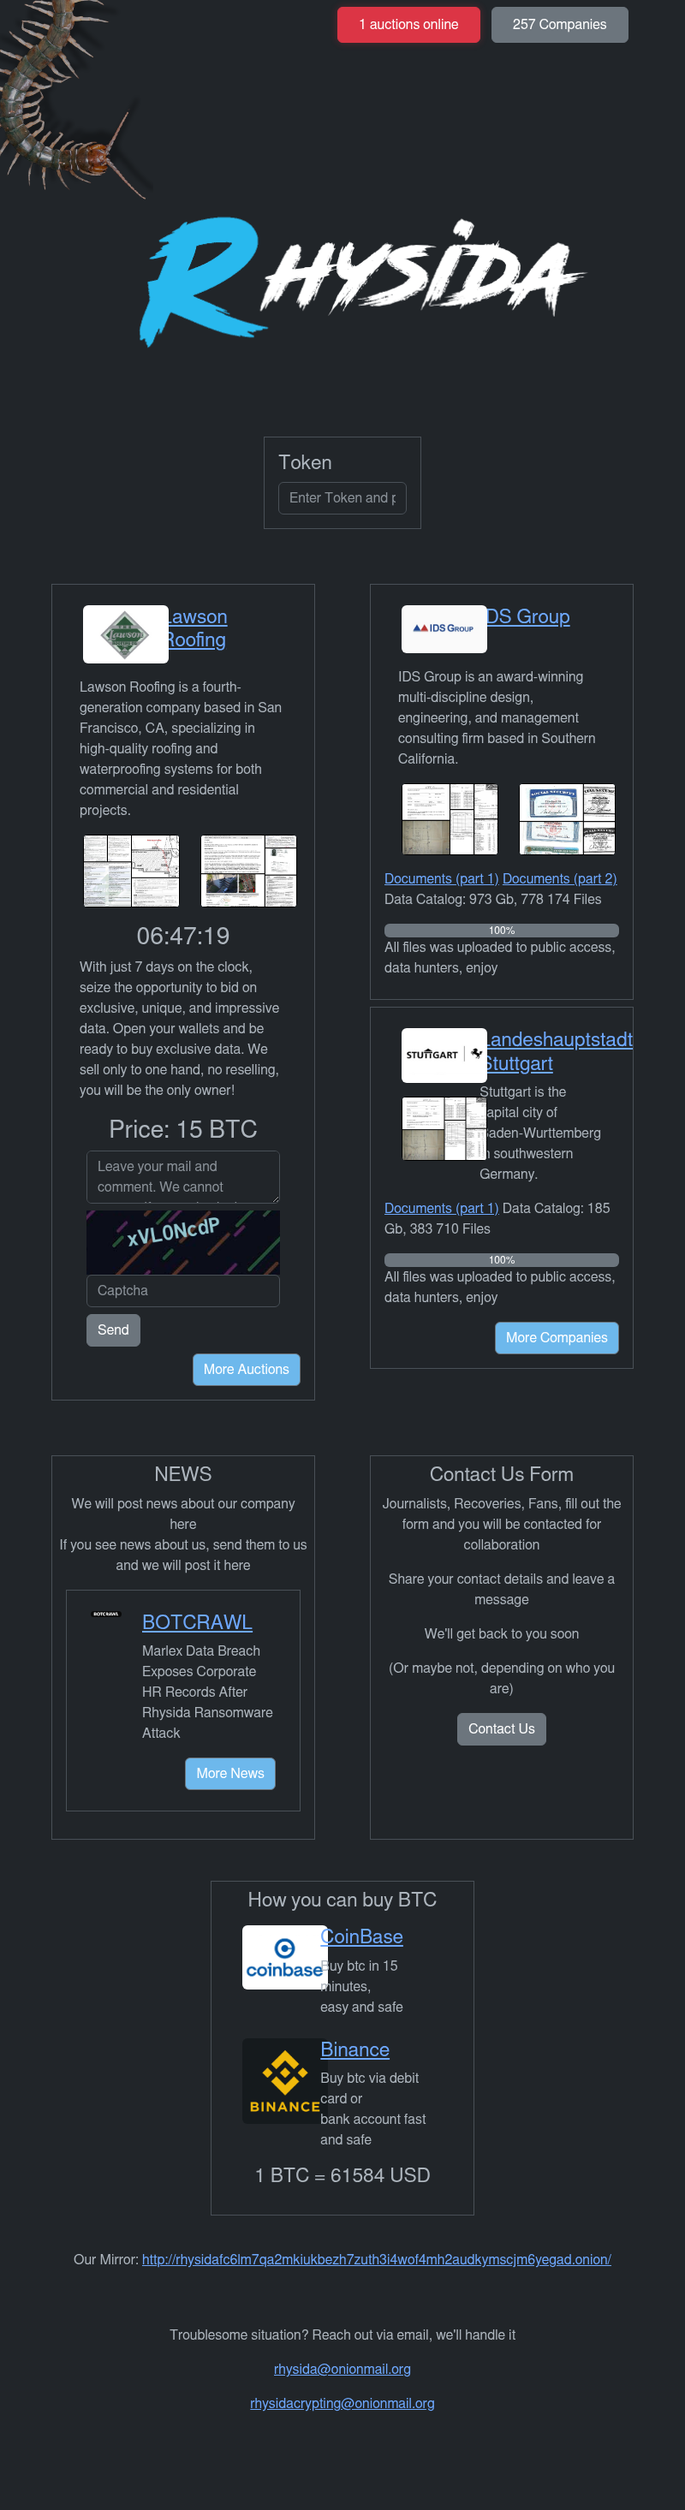
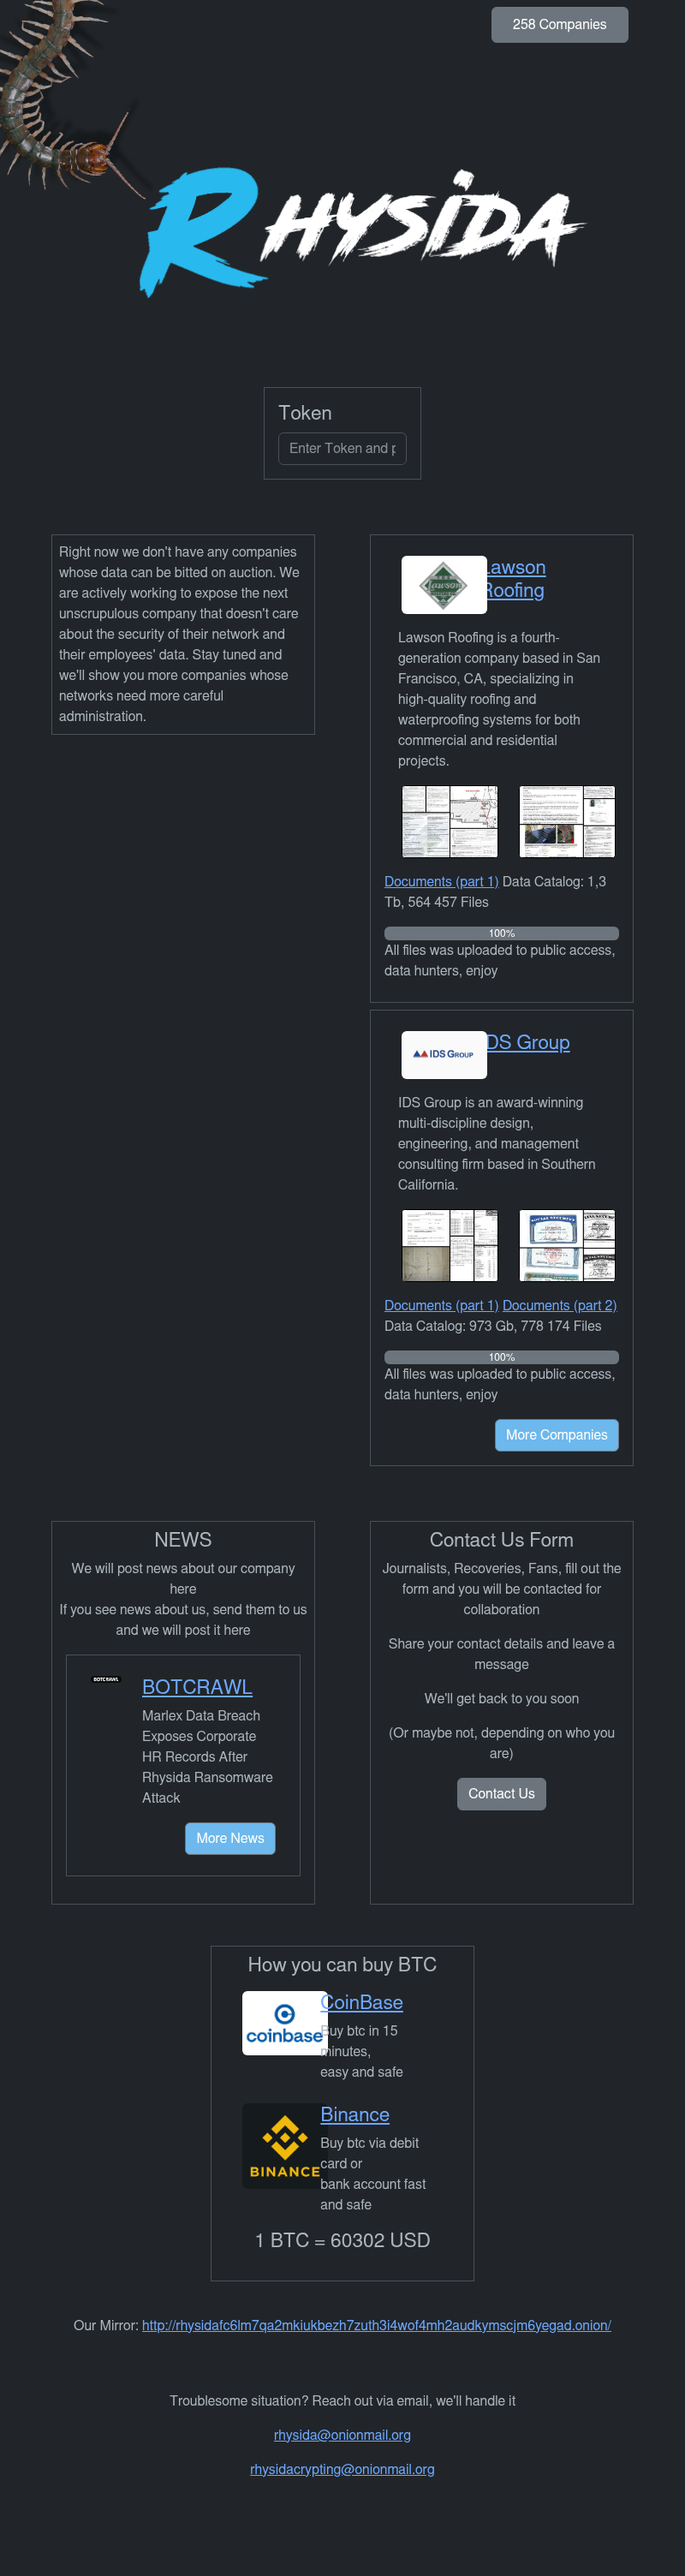
deploy: 4437f00f07ef708a39310c008595b9bcf039456d

diff --git a/slug-threeamkelxicjsaf2czjyz2lc4q3ngqkxhhlexyfcp2o6raw4rphyad.onion.html b/slug-threeamkelxicjsaf2czjyz2lc4q3ngqkxhhlexyfcp2o6raw4rphyad.onion.html
@@ -1,0 +1,72 @@
+
+    <script>
+        window.onload = function() {
+            document.getElementById("hour").value = "";
+            document.getElementById("minute").value = "";
+        };
+
+        function restrictToDigits(event) {
+            const allowedKeys = [
+                "0", "1", "2", "3", "4", "5", "6", "7", "8", "9",
+                "Backspace", "Delete", "ArrowLeft", "ArrowRight", "Tab"
+            ];
+            if (!allowedKeys.includes(event.key)) {
+                event.preventDefault();
+            }
+        }
+
+        function verifyClock() {
+            var hour = document.getElementById("hour").value;
+            var minute = document.getElementById("minute").value;
+            fetch("/verify", {
+                method: "POST",
+                headers: {"Content-Type": "application/json"},
+                body: JSON.stringify({
+                    "hour": hour,
+                    "minute": minute
+                })
+            })
+            .then(response => response.json())
+            .then(data => {
+                if (data.ok) {
+                    window.location.reload();
+                } else {
+                    document.getElementById("error").innerText = data.msg;
+                    setTimeout(() => {
+                        window.location.reload();
+                    }, 1000);
+                }
+            });
+        }
+    </script>
+
+    <!DOCTYPE html>
+    <html lang="en">
+        <head>
+            <meta charset="UTF-8">
+            <meta http-equiv="X-UA-Compatible" content="IE=edge">
+            <meta name="viewport" content="width=device-width, initial-scale=1.0">
+            <link rel="icon" href="http://threeamkelxicjsaf2czjyz2lc4q3ngqkxhhlexyfcp2o6raw4rphyad.onion/static/icons/favicon.ico" type="image/x-icon">
+
+            <script src="https://code.jquery.com/jquery-3.5.1.js"></script>
+            <link rel="stylesheet" href="https://cdn.jsdelivr.net/npm/@tabler/core@latest/dist/css/tabler.min.css">
+            <script src="https://cdn.jsdelivr.net/npm/@tabler/core@latest/dist/js/tabler.min.js"></script>
+            <link href="https://fonts.googleapis.com/css?family=Montserrat" rel="stylesheet">
+            <link rel="stylesheet" type="text/css" href="http://threeamkelxicjsaf2czjyz2lc4q3ngqkxhhlexyfcp2o6raw4rphyad.onion/static/css/main.css" />
+
+            <title>Verify</title>
+        </head>
+        <body>
+            <div class="d-flex justify-content-center h-100">
+                <div class="noselect card p-3 align-self-center" style="background: #282b3c; border: 1px solid #303448;">
+                    <h2 class="m-auto mb-1" style="color: #ccc">What time does the clock show?</h2>
[1 lines of base64/hex data omitted]
+                    <input class="form-control mt-2 mb-2" onkeydown="restrictToDigits(event)" pattern="[0-9]*" type="number" id="hour" min="1" max="12" placeholder="Hours" value="">
+                    <input class="form-control mb-3" onkeydown="restrictToDigits(event)" pattern="[0-9]*" type="number" id="minute" min="0" max="55" step="5" placeholder="Minutes" value="">
+                    <button class="btn btn-primary" onclick="verifyClock()">Verify</button>
+                    <p class="m-auto mt-2 text-red" id="error"></p>
+                </div>
+            </div>
+       </body>
+    </html>
+

diff --git a/rhysida-rhysidafc6lm7qa2mkiukbezh7zuth3i4wof4mh2audkymscjm6yegad.onion.html b/rhysida-rhysidafc6lm7qa2mkiukbezh7zuth3i4wof4mh2audkymscjm6yegad.onion.html
@@ -77,8 +77,7 @@
 	</head>
 	<body>
 		<div class="container mb-5">
-						<p class="auctions position-relative bg-danger text-white py-2 px-4 rounded mt-2 border border-danger" style="width: fit-content; left: calc(75% - 180px); cursor: pointer;" id="auctions_online">1 auctions online</p>
-							<p class="position-relative bg-secondary text-white py-2 px-4 rounded mt-2 border border-secondary" style="width: fit-content; left: 75%; cursor: pointer; top: -58px;" id="companies_online">257 Companies</p>
+						<p class="position-relative bg-secondary text-white py-2 px-4 rounded mt-2 border border-secondary" style="width: fit-content; left: 75%; cursor: pointer;" id="companies_online">258 Companies</p>
 			<div class="w-100 mt-5">
 				<img src="./logos/logo.png" class="d-inline-block align-top rounded float-start w-100" alt="logo" />
 			</div>

diff --git a/index.html b/index.html
@@ -87,6 +87,11 @@
         <div class="caption"><b>rhysida</b>: rhysidafc6lm7qa2mkiukbezh7zuth3i4wof4mh2audkymscjm6yegad.onion</div>
       </div>
     
+      <div class="image-container">
+        <img src="slug-threeamkelxicjsaf2czjyz2lc4q3ngqkxhhlexyfcp2o6raw4rphyad.onion.png" alt="slug-threeamkelxicjsaf2czjyz2lc4q3ngqkxhhlexyfcp2o6raw4rphyad.onion.png" class="image">
+        <div class="caption"><b>slug</b>: threeamkelxicjsaf2czjyz2lc4q3ngqkxhhlexyfcp2o6raw4rphyad.onion</div>
+      </div>
+    
       </div>
       <div class="image-fullscreen" id="fullscreenModal">
         <img src="" alt="Fullscreen Image" id="fullscreenImage">
